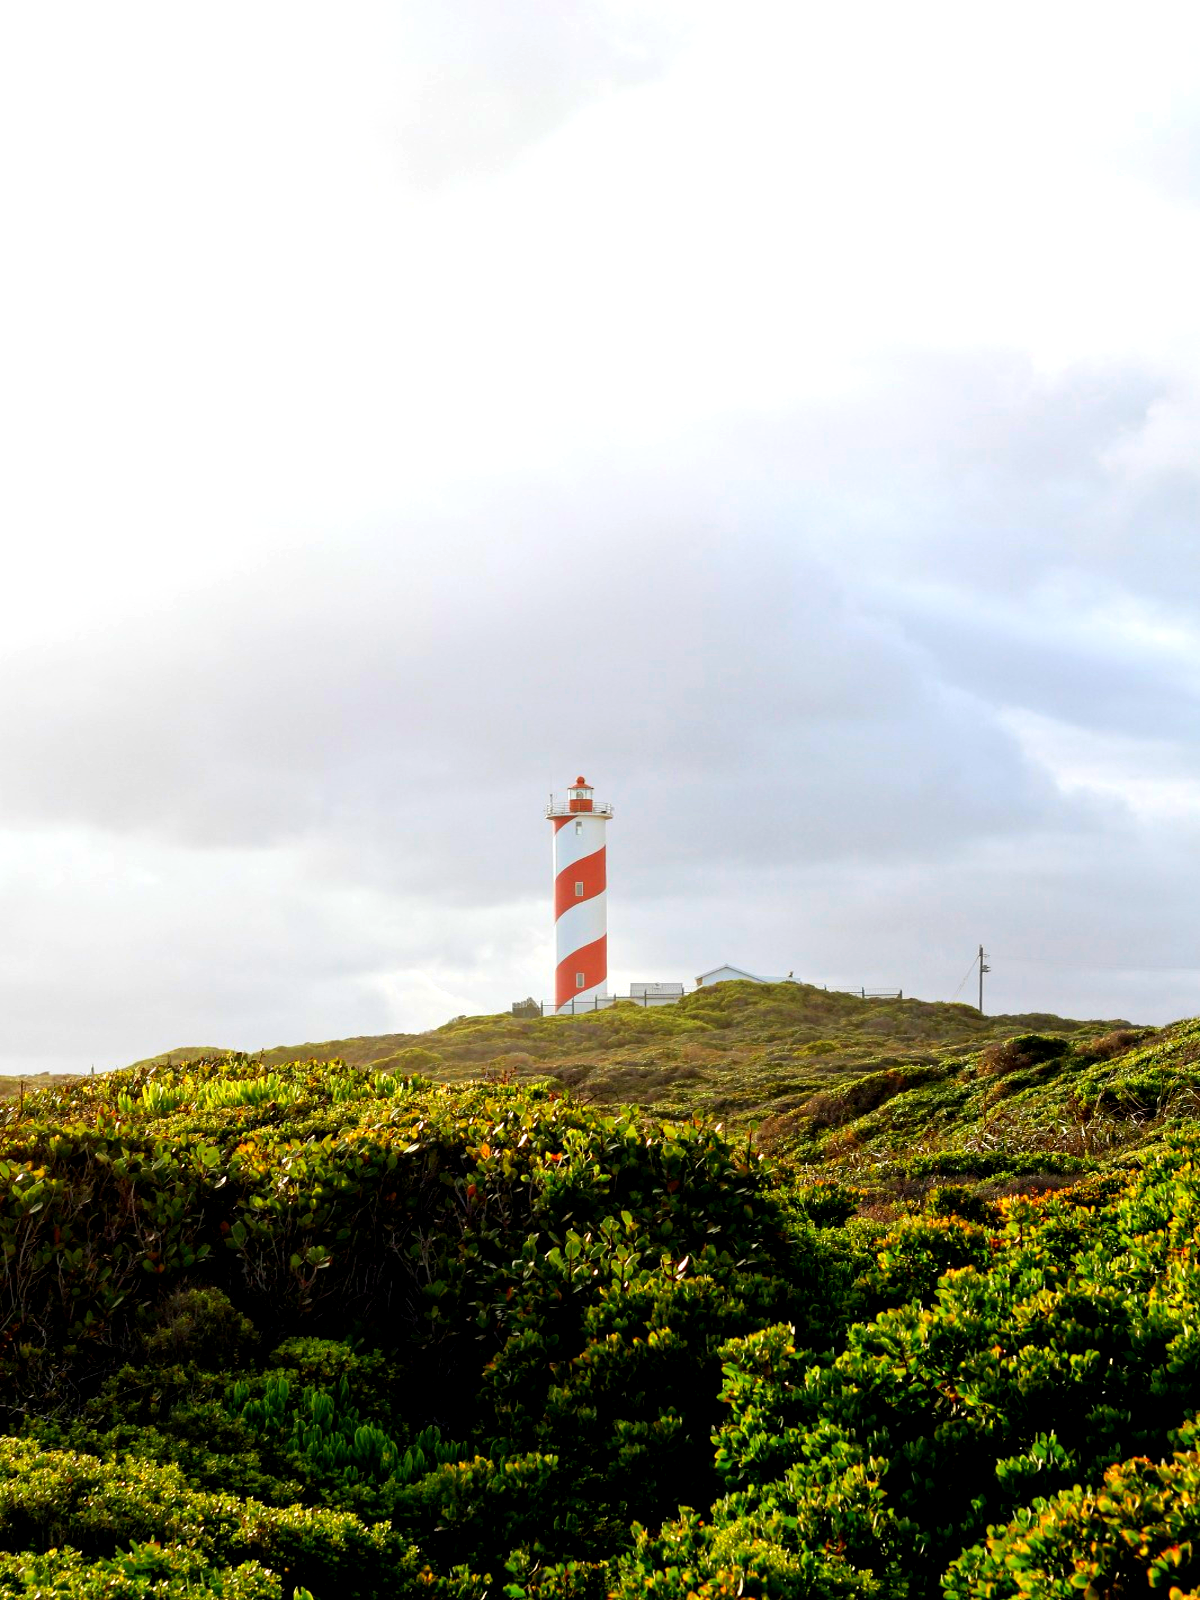
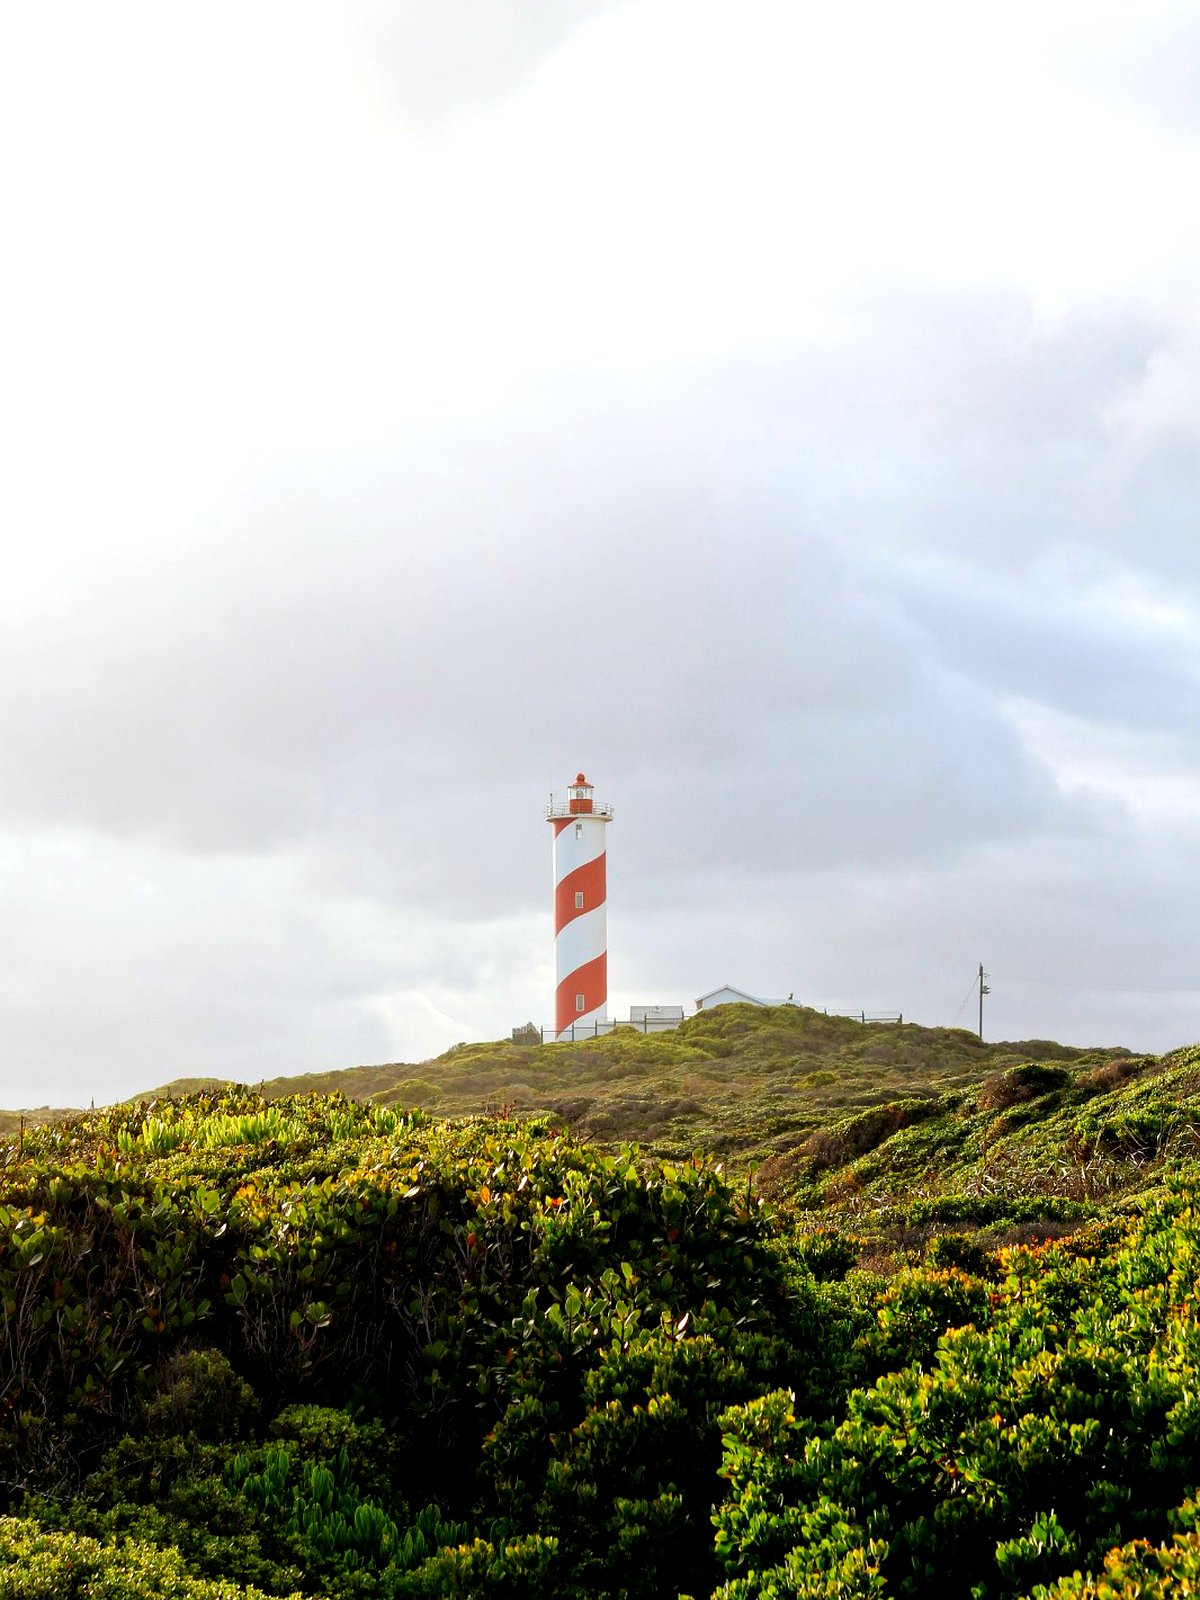
Change prep method

Changed region(s): [[0.0, 0.4688, 1.0, 1.0], [0.8633, 0.1875, 0.9867, 0.25], [0.9558, 0.2812, 1.0, 0.3125]]

diff --git a/prep_picture.py b/prep_picture.py
@@ -1,20 +1,36 @@
-from PIL import Image, ImageEnhance
+from PIL import Image, ImageEnhance, ImageOps
 
-image = Image.open("picdir/lighthouse2.jpeg")
+INPUT = "picdir/lighthouse2.jpeg"
+OUTPUT = "picdir/prepared.png"
 
-# Resize to screen resolution
-image = image.resize((1200, 1600))
+WIDTH = 1200
+HEIGHT = 1600
 
-# Make sure it's RGB
-image = image.convert("RGB")
+# Load image
+image = Image.open(INPUT).convert("RGB")
 
-# Increase color saturation
-image = ImageEnhance.Color(image).enhance(1.8)
+# Crop + resize without distortion
+image = ImageOps.fit(
+    image,
+    (WIDTH, HEIGHT),
+    method=Image.Resampling.LANCZOS,
+    centering=(0.5, 0.5)
+)
+
+# Color enhancement
+image = ImageEnhance.Color(image).enhance(1.6)
 
 # Increase contrast
-image = ImageEnhance.Contrast(image).enhance(1.3)
+image = ImageEnhance.Contrast(image).enhance(1.25)
 
-# Slightly increase brightness
+# Slight brightness boost
 image = ImageEnhance.Brightness(image).enhance(1.05)
 
-image.save("picdir/prepared.png")
+# Sharpen details
+image = ImageEnhance.Sharpness(image).enhance(1.3)
+
+# Save as RGB PNG
+image.save(OUTPUT)
+
+print(f"Saved {OUTPUT}")
+print(f"Size: {image.size}")

diff --git a/e_ink_lib/epd13in3E.py b/e_ink_lib/epd13in3E.py
@@ -240,7 +240,9 @@ class EPD():
             print("Invalid image dimensions: %d x %d, expected %d x %d" % (imwidth, imheight, self.width, self.height))
 
         # Convert the soruce image to the 7 colors, dithering if needed
-        image_7color = image_temp.convert("RGB").quantize(palette=pal_image)
+        image_7color = image_temp.convert("RGB").quantize(
+        palette=pal_image,
+        dither=Image.Dither.FLOYDSTEINBERG)
         buf_7color = bytearray(image_7color.tobytes('raw'))
 
         # PIL does not support 4 bit color, so pack the 4 bits of color
